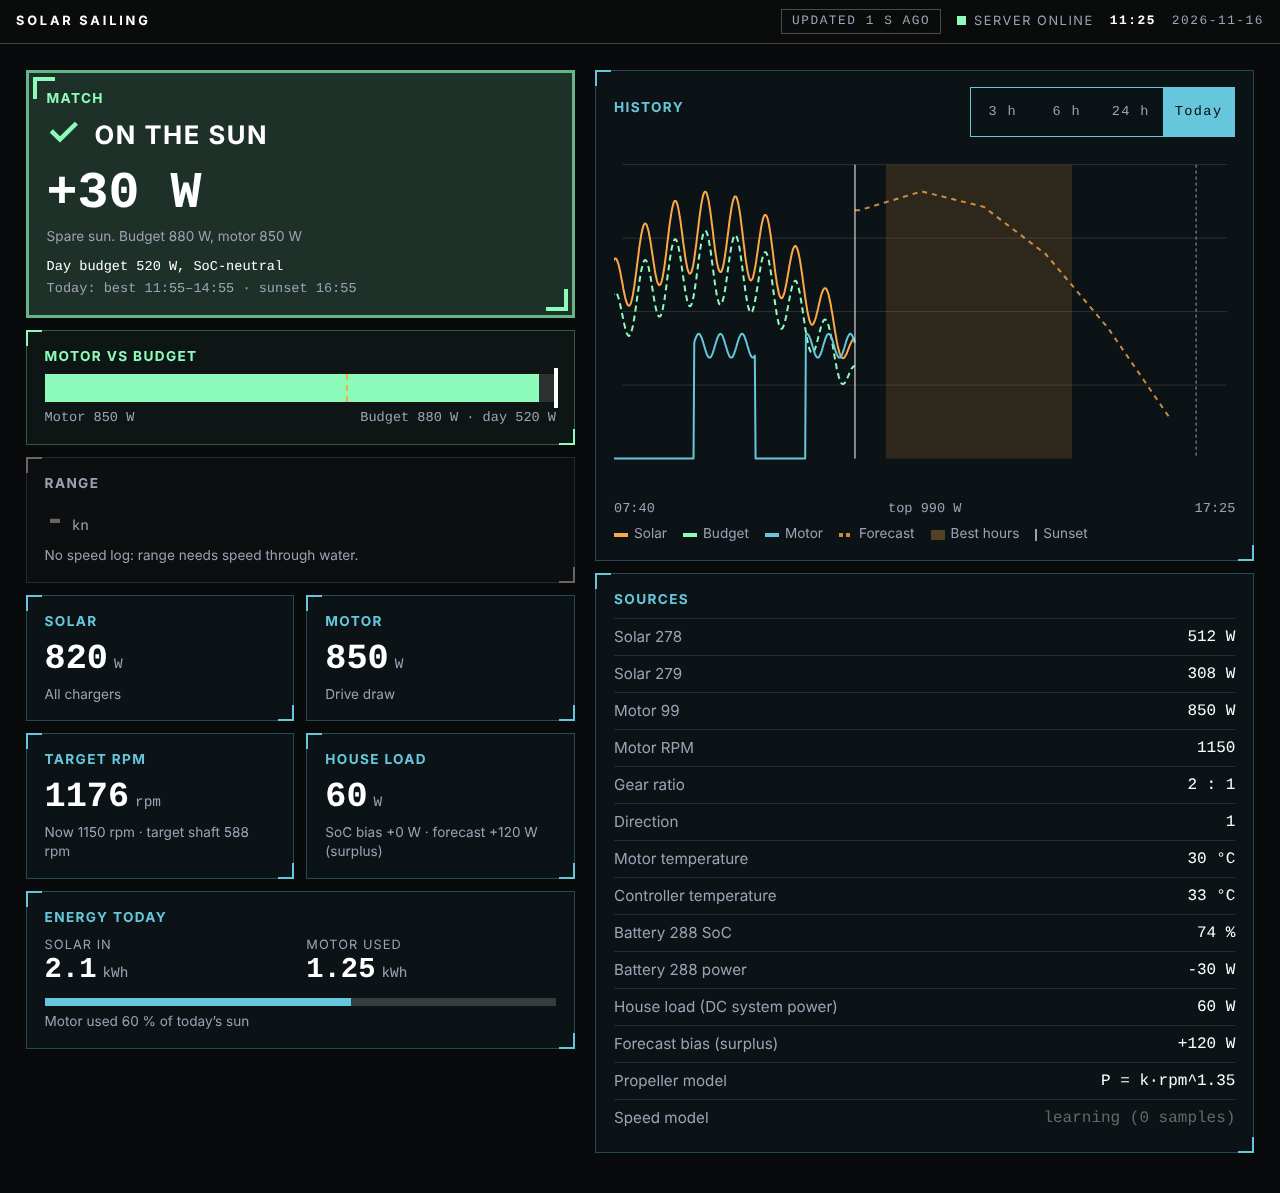
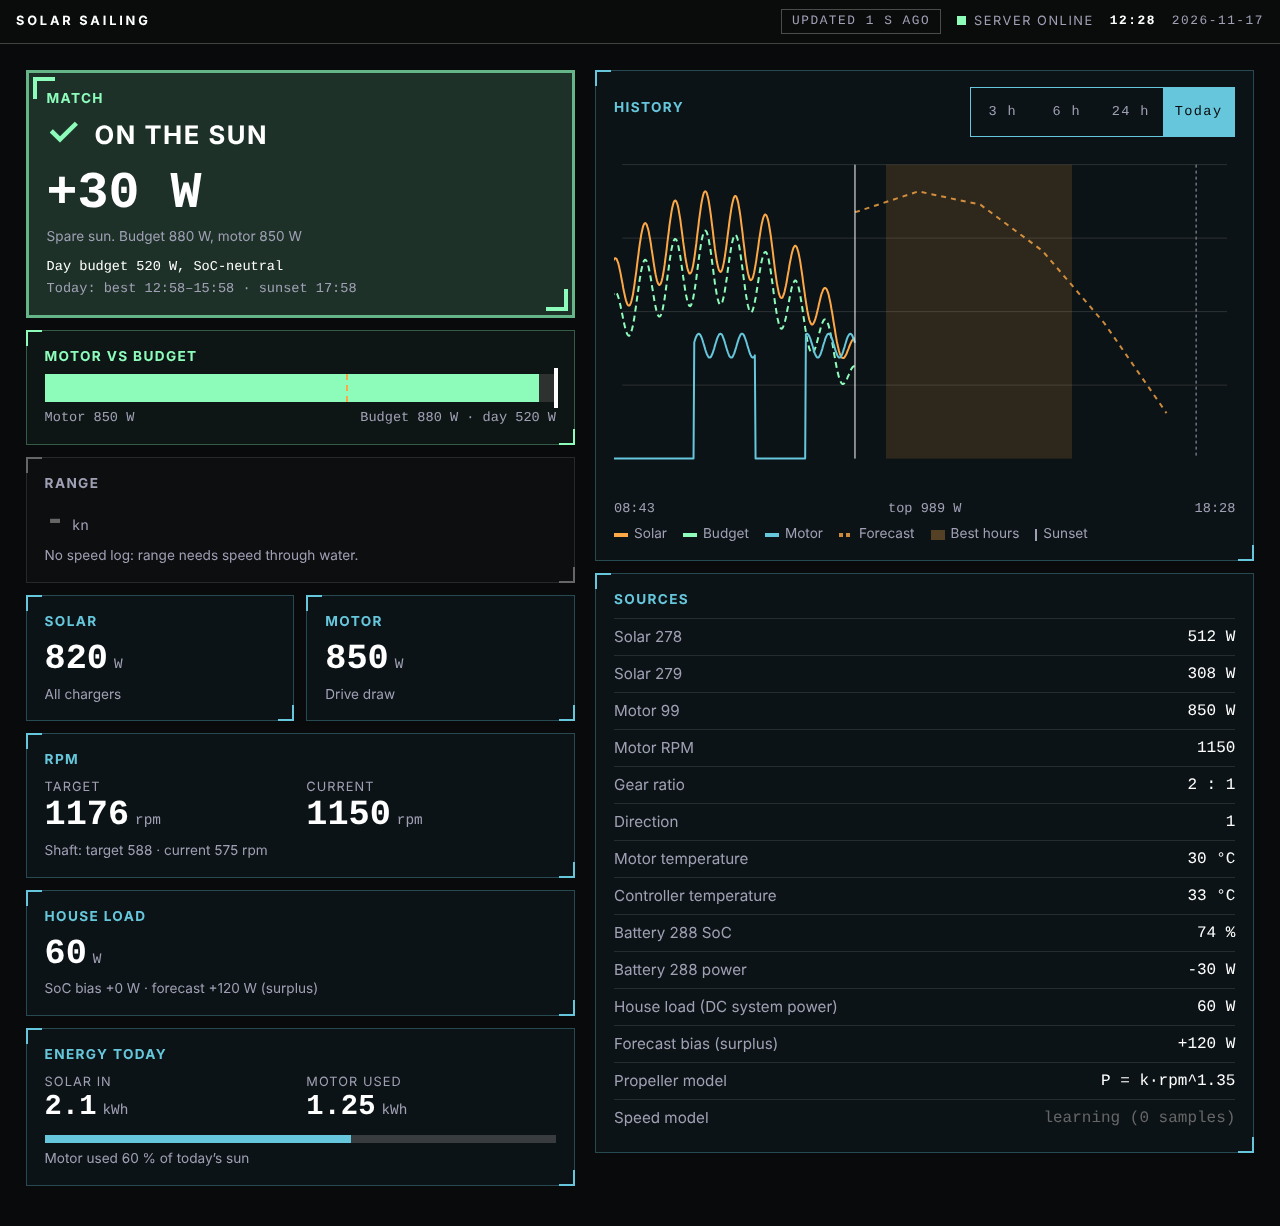
RPM card: target vs current motor RPM, shaft RPM below
Claude-Session: https://claude.ai/code/session_018kuSqz1rXtpvLwuU3JGmdv

diff --git a/public/js/elements/rpm.js b/public/js/elements/rpm.js
@@ -1,0 +1,56 @@
+// <ss-rpm>: target vs current motor RPM as two large values, target and
+// current shaft RPM small below (Tobi, 2026-11-17). ES2017.
+
+import { store, el, setTheme, P, isFresh } from '../context.js'
+import { rpmView } from '../view.js'
+
+class SsRpm extends HTMLElement {
+  connectedCallback () {
+    if (this.built) return
+    this.built = true
+    this.panel = el('section', 'sk-card theme-offline rpm')
+    this.panel.appendChild(el('p', 'label', 'RPM'))
+    const grid = el('div', 'pair')
+    this.target = this.cell(grid, 'Target')
+    this.current = this.cell(grid, 'Current')
+    this.panel.appendChild(grid)
+    this.sub = el('div', 'sub', 'Target learned while motoring')
+    this.panel.appendChild(this.sub)
+    this.appendChild(this.panel)
+    this.off = store.subscribe(['tick', 'connected', 'status', P + 'targetRevolutions', P + 'targetShaftRevolutions'], () => this.render())
+    this.render()
+  }
+
+  cell (parent, label) {
+    const c = el('div', 'cell')
+    c.appendChild(el('div', 'k', label))
+    const v = el('div', 'value')
+    const num = el('span', 'num', '-')
+    v.appendChild(num)
+    v.appendChild(el('small', '', 'rpm'))
+    c.appendChild(v)
+    parent.appendChild(c)
+    return num
+  }
+
+  disconnectedCallback () {
+    if (this.off) this.off()
+    this.built = false
+  }
+
+  render () {
+    const now = Date.now()
+    const connected = Boolean(store.get('connected'))
+    const t = store.get(P + 'targetRevolutions')
+    const ts = store.get(P + 'targetShaftRevolutions')
+    const tf = isFresh(t, now, connected)
+    const v = rpmView(tf ? t.value : undefined, isFresh(ts, now, connected) ? ts.value : undefined, connected ? store.get('status') : undefined)
+    if (this.target.textContent !== v.target) this.target.textContent = v.target
+    if (this.current.textContent !== v.current) this.current.textContent = v.current
+    const sub = v.shaft || 'Target learned while motoring'
+    if (this.sub.textContent !== sub) this.sub.textContent = sub
+    setTheme(this.panel, tf || v.current !== '-' ? 'theme-teal' : 'theme-offline')
+  }
+}
+
+customElements.define('ss-rpm', SsRpm)

diff --git a/public/js/elements/value.js b/public/js/elements/value.js
@@ -7,15 +7,6 @@ import { formatValue } from '../units.js'
 /** @param {number | undefined} v */
 const signed = (v) => (typeof v === 'number' && isFinite(v) ? (v >= 0 ? '+' : '') : '')
 
-/**
- * Motor RPM from the status resource, rounded, when fresh.
- * @param {any} status
- */
-const motorRpm = (status) => {
-  const m = status && status.available && status.sources && status.sources.motor
-  return m && !m.stale && typeof m.rpm === 'number' && isFinite(m.rpm) ? String(Math.round(m.rpm)) : undefined
-}
-
 class SsValue extends HTMLElement {
   connectedCallback () {
     if (this.built) return
@@ -37,8 +28,6 @@ class SsValue extends HTMLElement {
     if (this.subKey) keys.push(P + this.subKey)
     this.sub2Key = this.getAttribute('sub2-key')
     if (this.sub2Key) keys.push(P + this.sub2Key, 'status')
-    this.nowRpm = this.hasAttribute('now-rpm')
-    if (this.nowRpm) keys.push('status')
     this.off = store.subscribe(keys, () => this.render())
     this.render()
   }
@@ -71,9 +60,6 @@ class SsValue extends HTMLElement {
         const word = status.snapshot && status.snapshot.forecastStatus ? ' (' + status.snapshot.forecastStatus + ')' : ''
         text += ' · ' + (this.getAttribute('sub2-label') || '') + ' ' + signed(s2.value) + v2.text + (v2.unit ? ' ' + v2.unit : '') + word
       }
-      // Live motor RPM from the status poll next to the target (Tobi, 2026-11-16).
-      const rpm = this.nowRpm ? motorRpm(store.get('status')) : undefined
-      if (rpm !== undefined) text = 'Now ' + rpm + ' rpm · ' + text
       if (this.sub.textContent !== text) this.sub.textContent = text
     }
   }

diff --git a/public/js/view.js b/public/js/view.js
@@ -295,3 +295,25 @@ export function forecastPeak (hours) {
   for (let i = 0; i < hours.length; i++) if (hours[i] && typeof hours[i].solarW === 'number' && hours[i].solarW > max) max = hours[i].solarW
   return max
 }
+
+/**
+ * RPM card (Tobi, 2026-11-17): target vs current motor RPM, and the same
+ * for the shaft. Target from the published paths (Hz), current from the
+ * status poll (motor rpm, shaft = motor / gear ratio). Missing → '-'.
+ * @param {number | undefined} targetHz
+ * @param {number | undefined} targetShaftHz
+ * @param {any} status
+ */
+export function rpmView (targetHz, targetShaftHz, status) {
+  const r = (v) => (typeof v === 'number' && isFinite(v) ? String(Math.round(v)) : '-')
+  const m = status && status.available && status.sources ? status.sources.motor : null
+  const cur = m && !m.stale && typeof m.rpm === 'number' ? m.rpm : undefined
+  const gear = m && typeof m.gearRatio === 'number' && m.gearRatio > 0 ? m.gearRatio : undefined
+  const tShaft = typeof targetShaftHz === 'number' ? targetShaftHz * 60 : undefined
+  const cShaft = cur !== undefined && gear !== undefined ? cur / gear : undefined
+  return {
+    target: r(typeof targetHz === 'number' ? targetHz * 60 : undefined),
+    current: r(cur),
+    shaft: tShaft === undefined && cShaft === undefined ? '' : 'Shaft: target ' + r(tShaft) + ' · current ' + r(cShaft) + ' rpm'
+  }
+}

diff --git a/test/webapp/range-view.test.js b/test/webapp/range-view.test.js
@@ -118,3 +118,14 @@ test('sources gain forecast bias, STW, current and speed model rows', () => {
   assert.deepEqual([byId.current[1], byId.current[2]], ['Current (estimated)', 'set 90°, 0.6 kn'])
   assert.equal(byId.speed[2], 'learning (5 samples)')
 })
+
+test('RPM card: target vs current, shaft below', async () => {
+  const { rpmView } = await import('../../public/js/view.js')
+  const status = { available: true, sources: { motor: { rpm: 1150.4, gearRatio: 2, stale: false } } }
+  assert.deepEqual(rpmView(19.6, 9.8, status), { target: '1176', current: '1150', shaft: 'Shaft: target 588 · current 575 rpm' })
+  assert.deepEqual(rpmView(undefined, undefined, undefined), { target: '-', current: '-', shaft: '' })
+  const stale = { available: true, sources: { motor: { rpm: 1000, stale: true } } }
+  assert.equal(rpmView(19.6, undefined, stale).current, '-')
+  // No gear ratio: no current shaft value.
+  assert.equal(rpmView(19.6, 9.8, { available: true, sources: { motor: { rpm: 1000, stale: false } } }).shaft, 'Shaft: target 588 · current - rpm')
+})

diff --git a/public/css/app.css b/public/css/app.css
@@ -34,7 +34,7 @@ html, body { margin: 0; background: var(--bg-base); }
 body { font: 15px/1.45 var(--font-ui); color: var(--text-main); }
 .mono { font-family: var(--font-data); font-variant-numeric: tabular-nums; }
 .noscript { padding: 16px; }
-ss-topbar, ss-offline, ss-match, ss-budget-bar, ss-value, ss-energy, ss-chart, ss-sources, ss-range { display: block; }
+ss-topbar, ss-offline, ss-match, ss-budget-bar, ss-value, ss-energy, ss-chart, ss-sources, ss-range, ss-rpm { display: block; }
 
 /* Chrome */
 .topbar {
@@ -177,3 +177,7 @@ table.kv tr.stale td:last-child { color: var(--color-grey); }
 .plot .best { fill: rgba(var(--color-orange-rgb), 0.14); }
 .plot .sunset { stroke: var(--text-muted); stroke-dasharray: 3 3; stroke-width: 1; vector-effect: non-scaling-stroke; }
 .plot .now { stroke: var(--text-main); stroke-width: 1; vector-effect: non-scaling-stroke; }
+
+/* RPM card: target vs current */
+ss-rpm, .values .wide { grid-column: 1 / -1; }
+.rpm .pair .value { font-size: 2.2rem; }

diff --git a/public/index.html b/public/index.html
@@ -25,8 +25,8 @@
       <div class="values tab-live">
         <ss-value label="Solar" key="solarPower" hint="All chargers"></ss-value>
         <ss-value label="Motor" key="motorPower" hint="Drive draw"></ss-value>
-        <ss-value label="Target RPM" key="targetRevolutions" now-rpm sub-key="targetShaftRevolutions" sub-label="target shaft" hint="Learned while motoring"></ss-value>
-        <ss-value label="House load" key="houseLoad" sub-key="socBias" sub-label="SoC bias" sub2-key="forecastBias" sub2-label="forecast" signed hint="Everything but the motor"></ss-value>
+        <ss-rpm></ss-rpm>
+        <ss-value class="wide" label="House load" key="houseLoad" sub-key="socBias" sub-label="SoC bias" sub2-key="forecastBias" sub2-label="forecast" signed hint="Everything but the motor"></ss-value>
       </div>
       <ss-energy class="tab-live"></ss-energy>
     </div>

diff --git a/public/js/app.js b/public/js/app.js
@@ -12,6 +12,7 @@ import './elements/energy.js'
 import './elements/sources.js'
 import './elements/chart.js'
 import './elements/range.js'
+import './elements/rpm.js'
 
 const STATUS_POLL_MS = 5000
 const getJson = (u) => fetch(u, { credentials: 'same-origin' })

diff --git a/CHANGELOG.md b/CHANGELOG.md
@@ -45,7 +45,8 @@ All notable changes to this project are documented here. The format follows
     dashes without a speed log; while learning it shows the sample count and
     a suggested STW factor for a fouled log.
   - Sources: speed through water, current set and drift, speed model.
-  - Target RPM panel shows the motor's current RPM next to the target.
+  - One RPM card with target and current motor RPM side by side, and target
+    and current shaft RPM below.
   - Chart: new "Today" window from sunrise to sunset with the solar forecast,
     best hours and sunset; the 3 / 6 / 24 h windows are unchanged.
   - Sunrise in the status resource for the chart.
